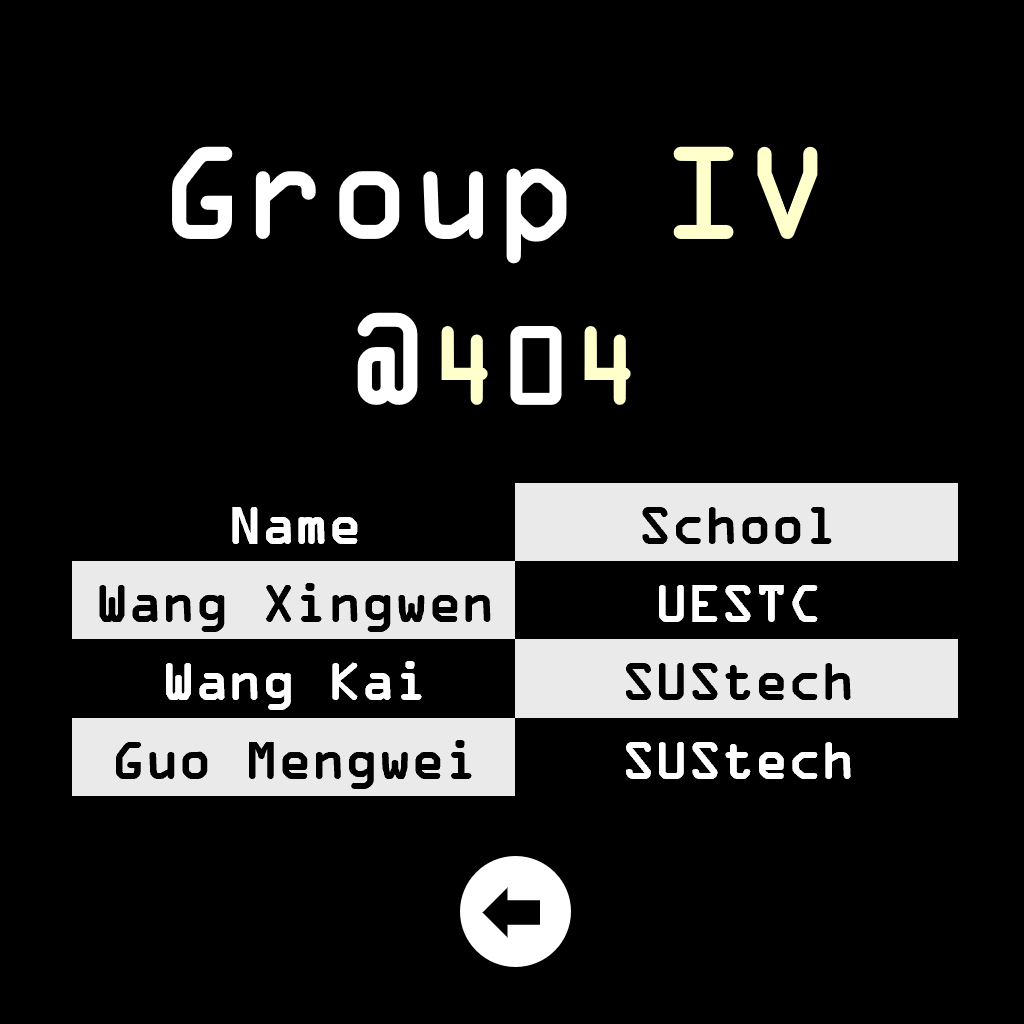
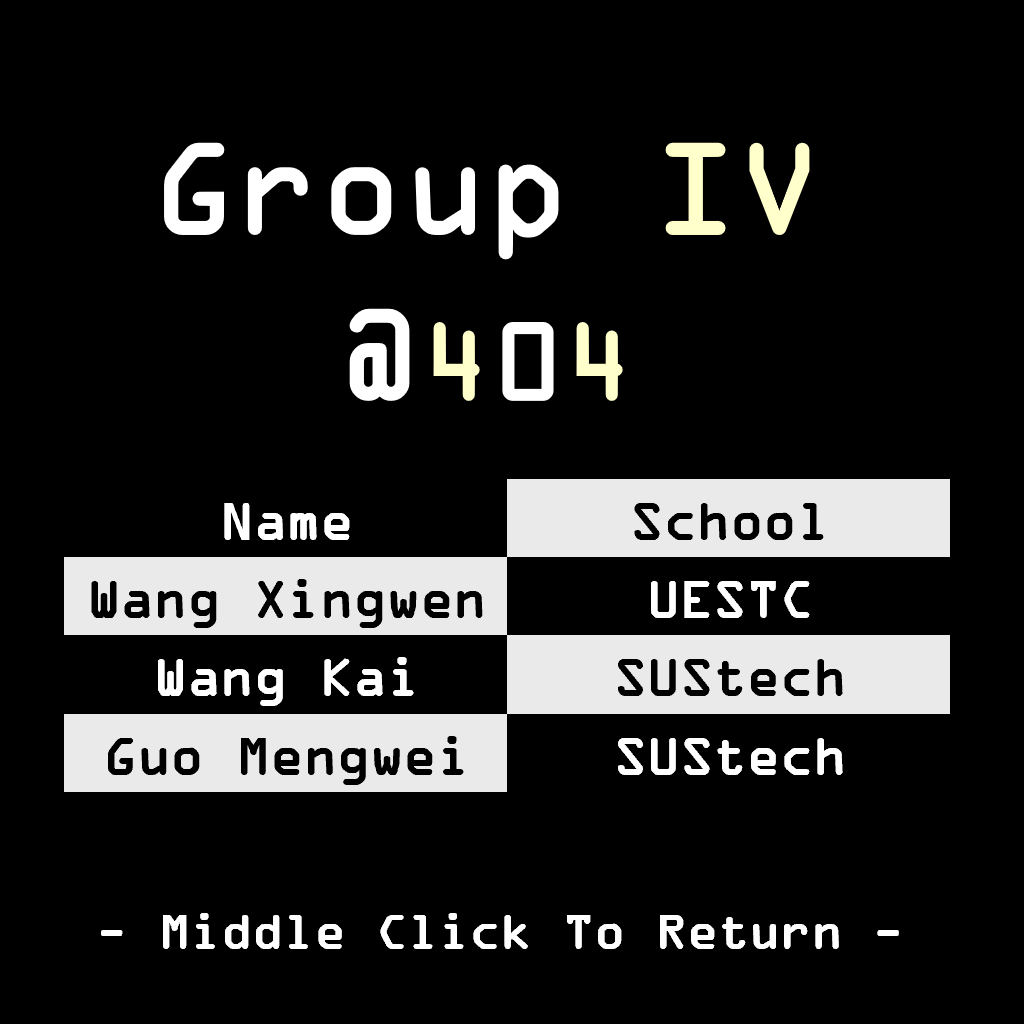
Fix bugs in scene switch

diff --git a/NoWhereCode/public_html/src/MyGame/AuthorInfo.js b/NoWhereCode/public_html/src/MyGame/AuthorInfo.js
@@ -19,9 +19,7 @@ function AuthorInfo() {
     // The camera to view the scene
     this.mCamera = null;
     this.mLogo = null;
-    this.mMsg = null;
-    this.mMsg = null;
-    this.msg = "";
+
 }
 
 gEngine.Core.inheritPrototype(AuthorInfo, Scene);
@@ -32,7 +30,7 @@ AuthorInfo.prototype.loadScene = function () {
 };
 
 AuthorInfo.prototype.unloadScene = function () {
-//    gEngine.Textures.unloadTexture(this.kLogo);
+    gEngine.Textures.unloadTexture(this.kLogo);
     gEngine.Core.startScene(new StartUI());
 };
 
@@ -47,63 +45,31 @@ AuthorInfo.prototype.initialize = function () {
     this.mCamera.setBackgroundColor([1, 1, 1, 1]);
             // sets the background to gray
     gEngine.DefaultResources.setGlobalAmbientIntensity(3);
-//  
-//    // logo2
+
+    // logo2
     this.mLogo = new TextureRenderable(this.kLogo);
     this.mLogo.getXform().setPosition(50,40);
     this.mLogo.getXform().setSize(100,100);
-    
-//    // the message on the screen
-//    this.mMsg = new FontRenderable("@404");
-//    this.mMsg.setColor([0,0,0,1]);
-//    this.mMsg.getXform().setPosition(80, 1);
-//    this.mMsg.setTextHeight(4);
-    
-    this.mMsg = new FontRenderable("Status Message");
-    this.mMsg.setColor([1, 1, 1, 1]);
-    this.mMsg.getXform().setPosition(1, -5  );
-    this.mMsg.setTextHeight(3);
+     
         
 };
 
 AuthorInfo.prototype.draw = function () {
     // Step A: clear the canvas
     gEngine.Core.clearCanvas([0, 0.8, 0.6, 1.0]); // clear to light gray
-
-
     this.mCamera.setupViewProjection();
     this.mLogo.draw(this.mCamera);
-    this.mMsg.draw(this.mCamera);
 
 };
-
-// this function will judge if the mouse clicks in the area of buttons.
-AuthorInfo.prototype.updateButton = function(posX, posY, radius) {
-    var mouseX = gEngine.Input.getMousePosX();
-    var mouseY = gEngine.Input.getMousePosY();
-    
-    var distance = (mouseX-posX)*(mouseX-posX) + (mouseY-posY)*(mouseY-posY);   
-    if (radius*radius > distance) {
-        return 1;
-    }
-
-}
 
 AuthorInfo.prototype.update = function () {
     
     
-    var msg = "";
     
     this.mCamera.update();  // for smoother camera movements
            
-    if (gEngine.Input.isButtonPressed(gEngine.Input.mouseButton.Left)) {
-        msg += "[L Down]"; 
-        if (this.updateButton(317, 69, 33) == 1) {
-            gEngine.GameLoop.stop();   
-        }
+    if (gEngine.Input.isButtonPressed(gEngine.Input.mouseButton.Middle)) {
+        gEngine.GameLoop.stop();   
     }
-    
-    
-    msg += " X=" + gEngine.Input.getMousePosX() + " Y=" + gEngine.Input.getMousePosY();
-    this.mMsg.setText(msg);
+
 };

diff --git a/NoWhereCode/public_html/src/MyGame/MyGame.js b/NoWhereCode/public_html/src/MyGame/MyGame.js
@@ -138,15 +138,7 @@
         // switch to start UI when press ENTER
         if (gEngine.Input.isKeyPressed(gEngine.Input.keys.Enter)) {
             gEngine.GameLoop.stop();
-//            this.unloadScene();
         }
-        
-//        // switch to start UI when press ENTER
-//        if (gEngine.Input.isKeyPressed(gEngine.Input.keys.W)) {
-//            var v = this.mCamera2.getViewport();
-//            v[1] += 1;
-//            this.mCamera2.setViewport(v, 0);
-//        }
         
         
         

diff --git a/NoWhereCode/public_html/src/MyGame/StartUI.js b/NoWhereCode/public_html/src/MyGame/StartUI.js
@@ -127,8 +127,7 @@ StartUI.prototype.update = function () {
         
     }
 
-    if (gEngine.Input.isButtonPressed(gEngine.Input.mouseButton.Middle)) {
-    }
+
     
     msg += " X=" + gEngine.Input.getMousePosX() + " Y=" + gEngine.Input.getMousePosY();
     this.mMsg.setText(msg);
